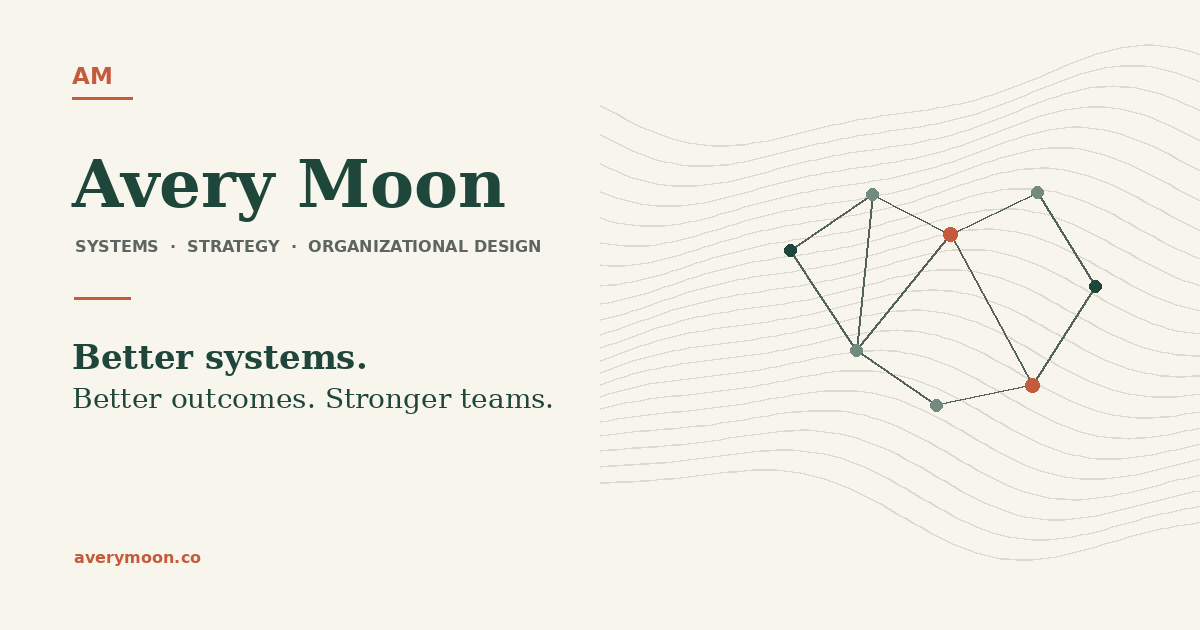
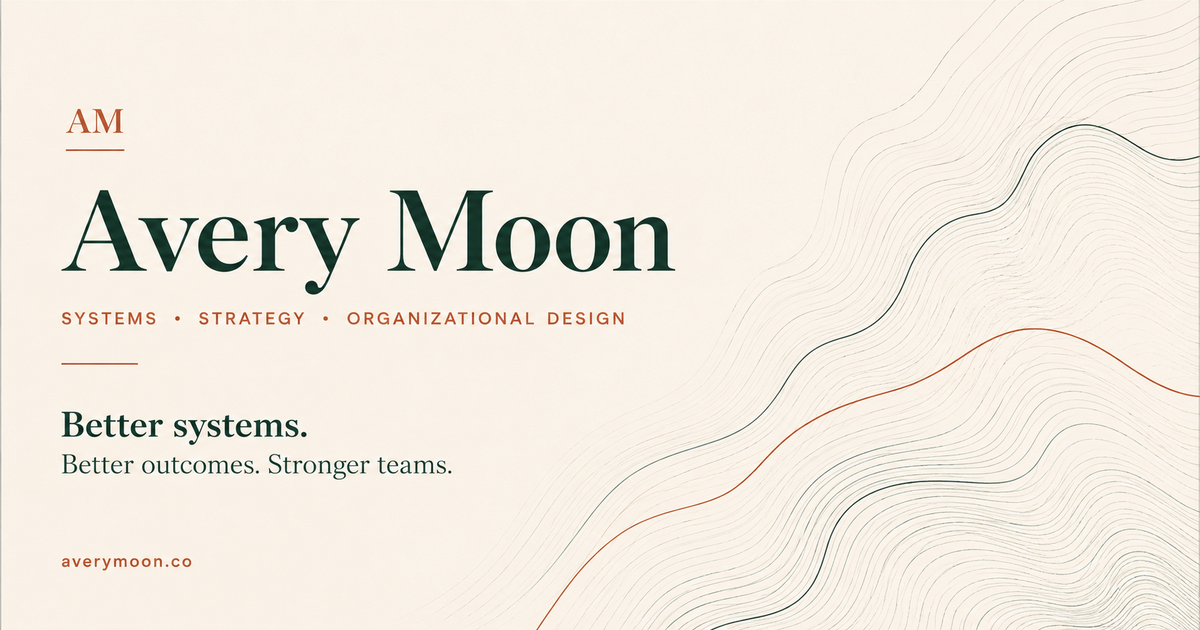
Add files via upload

diff --git a/README.md b/README.md
@@ -1,11 +1,11 @@
-# averymoon.co — V6.12.5 Final OG Hybrid + Scheduler CTA
+# averymoon.co — V6.12.6 Option E OG Preview
 
-Built on V6.12.4.
+Built on V6.12.5.
 
 Changes:
-- Replaces the OG graphic with Option A's clean hierarchy plus Option C's denser contour/network graphic.
-- Rebuilds Section 03 markup into an explicit two-column editorial layout to remove excessive dead space.
-- Keeps the Exception Logic headline left, supporting copy right, and the external-span flow centered underneath.
-- Restores a large, prominent `Read the Technical Overview →` CTA after the reconstructed scheduler graphics.
-- CTA links to `/downloads/production-planning-scheduling-technical-brief.pdf`.
-- Hides any legacy small technical-brief CTA.
+- Replaces the previous Open Graph artwork with the approved Option E design.
+- Preserves the existing site metadata and scheduler-page fixes.
+- Exports the social image at the standard 1200×630 Open Graph size.
+- Existing `/og-avery-moon.png` references continue to work; no metadata-path change is required.
+
+Note: LinkedIn, iMessage, Slack, and other platforms may temporarily show a cached older preview after deployment.
